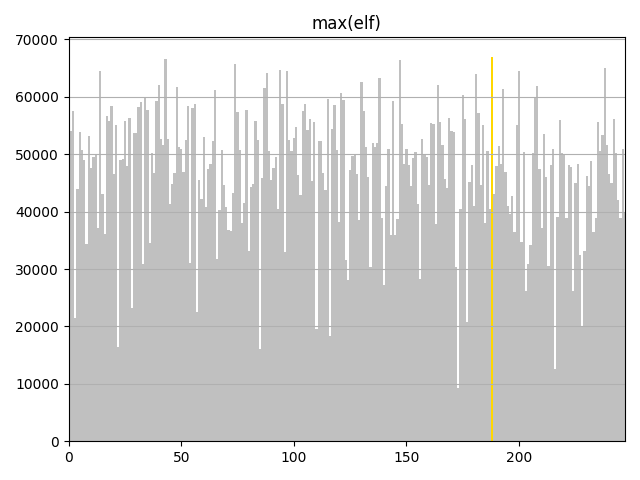
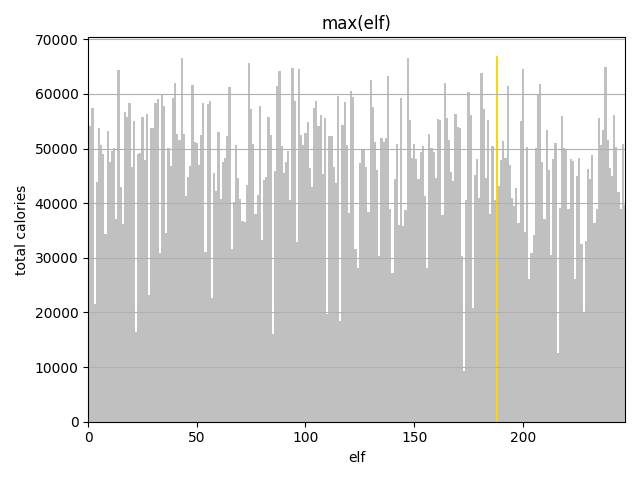
day1...

Changed region(s): [[0.0, 0.125, 1.0, 0.9688], [0.4688, 0.0312, 0.625, 0.0625], [0.0312, 0.0625, 0.125, 0.0938]]

diff --git a/visualizations.py b/visualizations.py
@@ -16,6 +16,8 @@ def viz1a(elves):
     ax.set(title="max(elf)")
     ax.grid(visible=True, axis="y")
     ax.set_xlim(0,len(elves)-1)
+    ax.set_xlabel("elf")
+    ax.set_ylabel("total calories")
     fig.set_tight_layout(True)
     fig.savefig(Path(__file__).parent / 'output' / 'day1a.png')
 
@@ -30,6 +32,8 @@ def viz1b(elves):
     ax.set(title="sorted(elves)[-3:]")
     ax.grid(visible=True, axis="y")
     ax.set_xlim(0,len(elves)-1)
+    ax.set_xlabel("elf")
+    ax.set_ylabel("total calories")
     fig.set_tight_layout(True)
     fig.savefig(Path(__file__).parent / 'output' / 'day1b.png')
 

diff --git a/README.md b/README.md
@@ -6,7 +6,7 @@
 Challenge | Execution Time | Visualisation | Notes
 --------- | -------------- | ------------- | -----
 Day 1 Calorie Counting [🌐](https://adventofcode.com/2022/day/1)[💾](./day1.py) | 0.0s | [![](./output/day1a.png)](./output/day1a.png)     | Find the elf with the most calorific food
-&nbsp; | 0.0s | [![](./output/day1b.png)](./output/day1b.png)  | Find the 3 elves with the most calorific food 
+&nbsp; | 0.0s | [![](./output/day1b.png)](./output/day1b.png)  | Find the 3 elves with the most calorific food<br /><br />**04:49** elapsed time was good enough for rank **#1191** a mere 1091 ranks outside the points leaderboard so I'll sleep in tomorrow!
 
 ## Powershell
 
